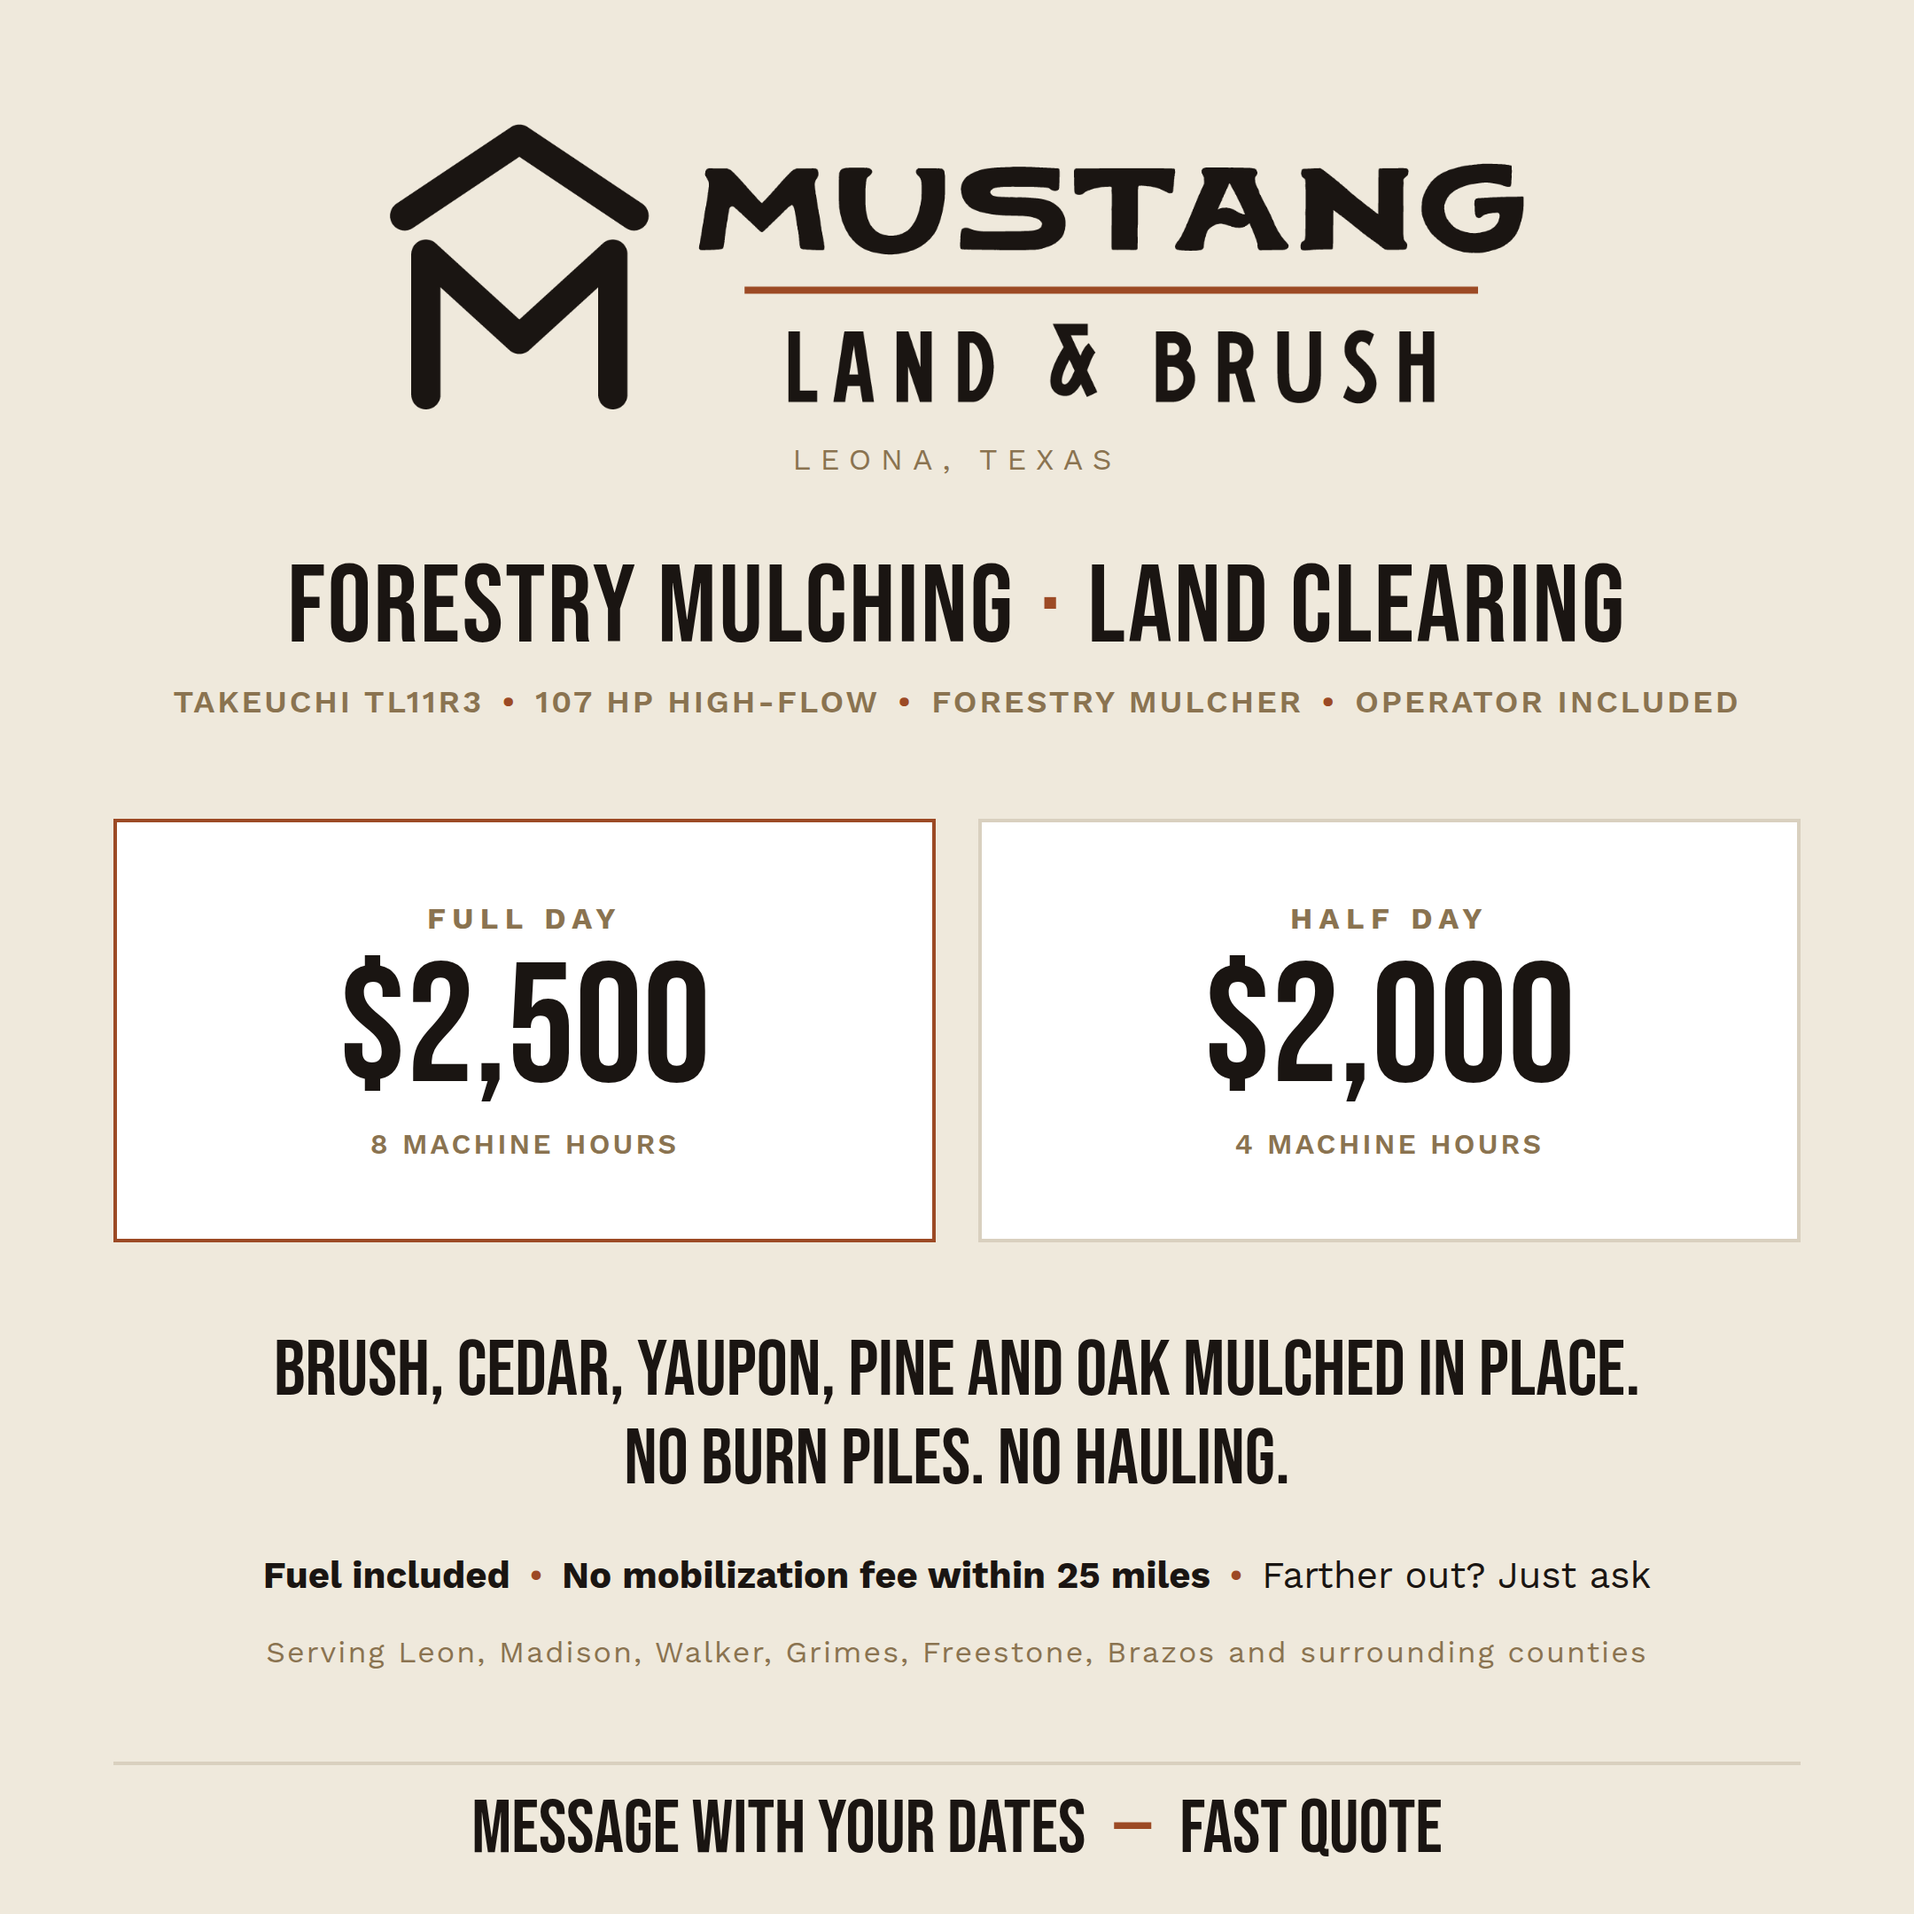
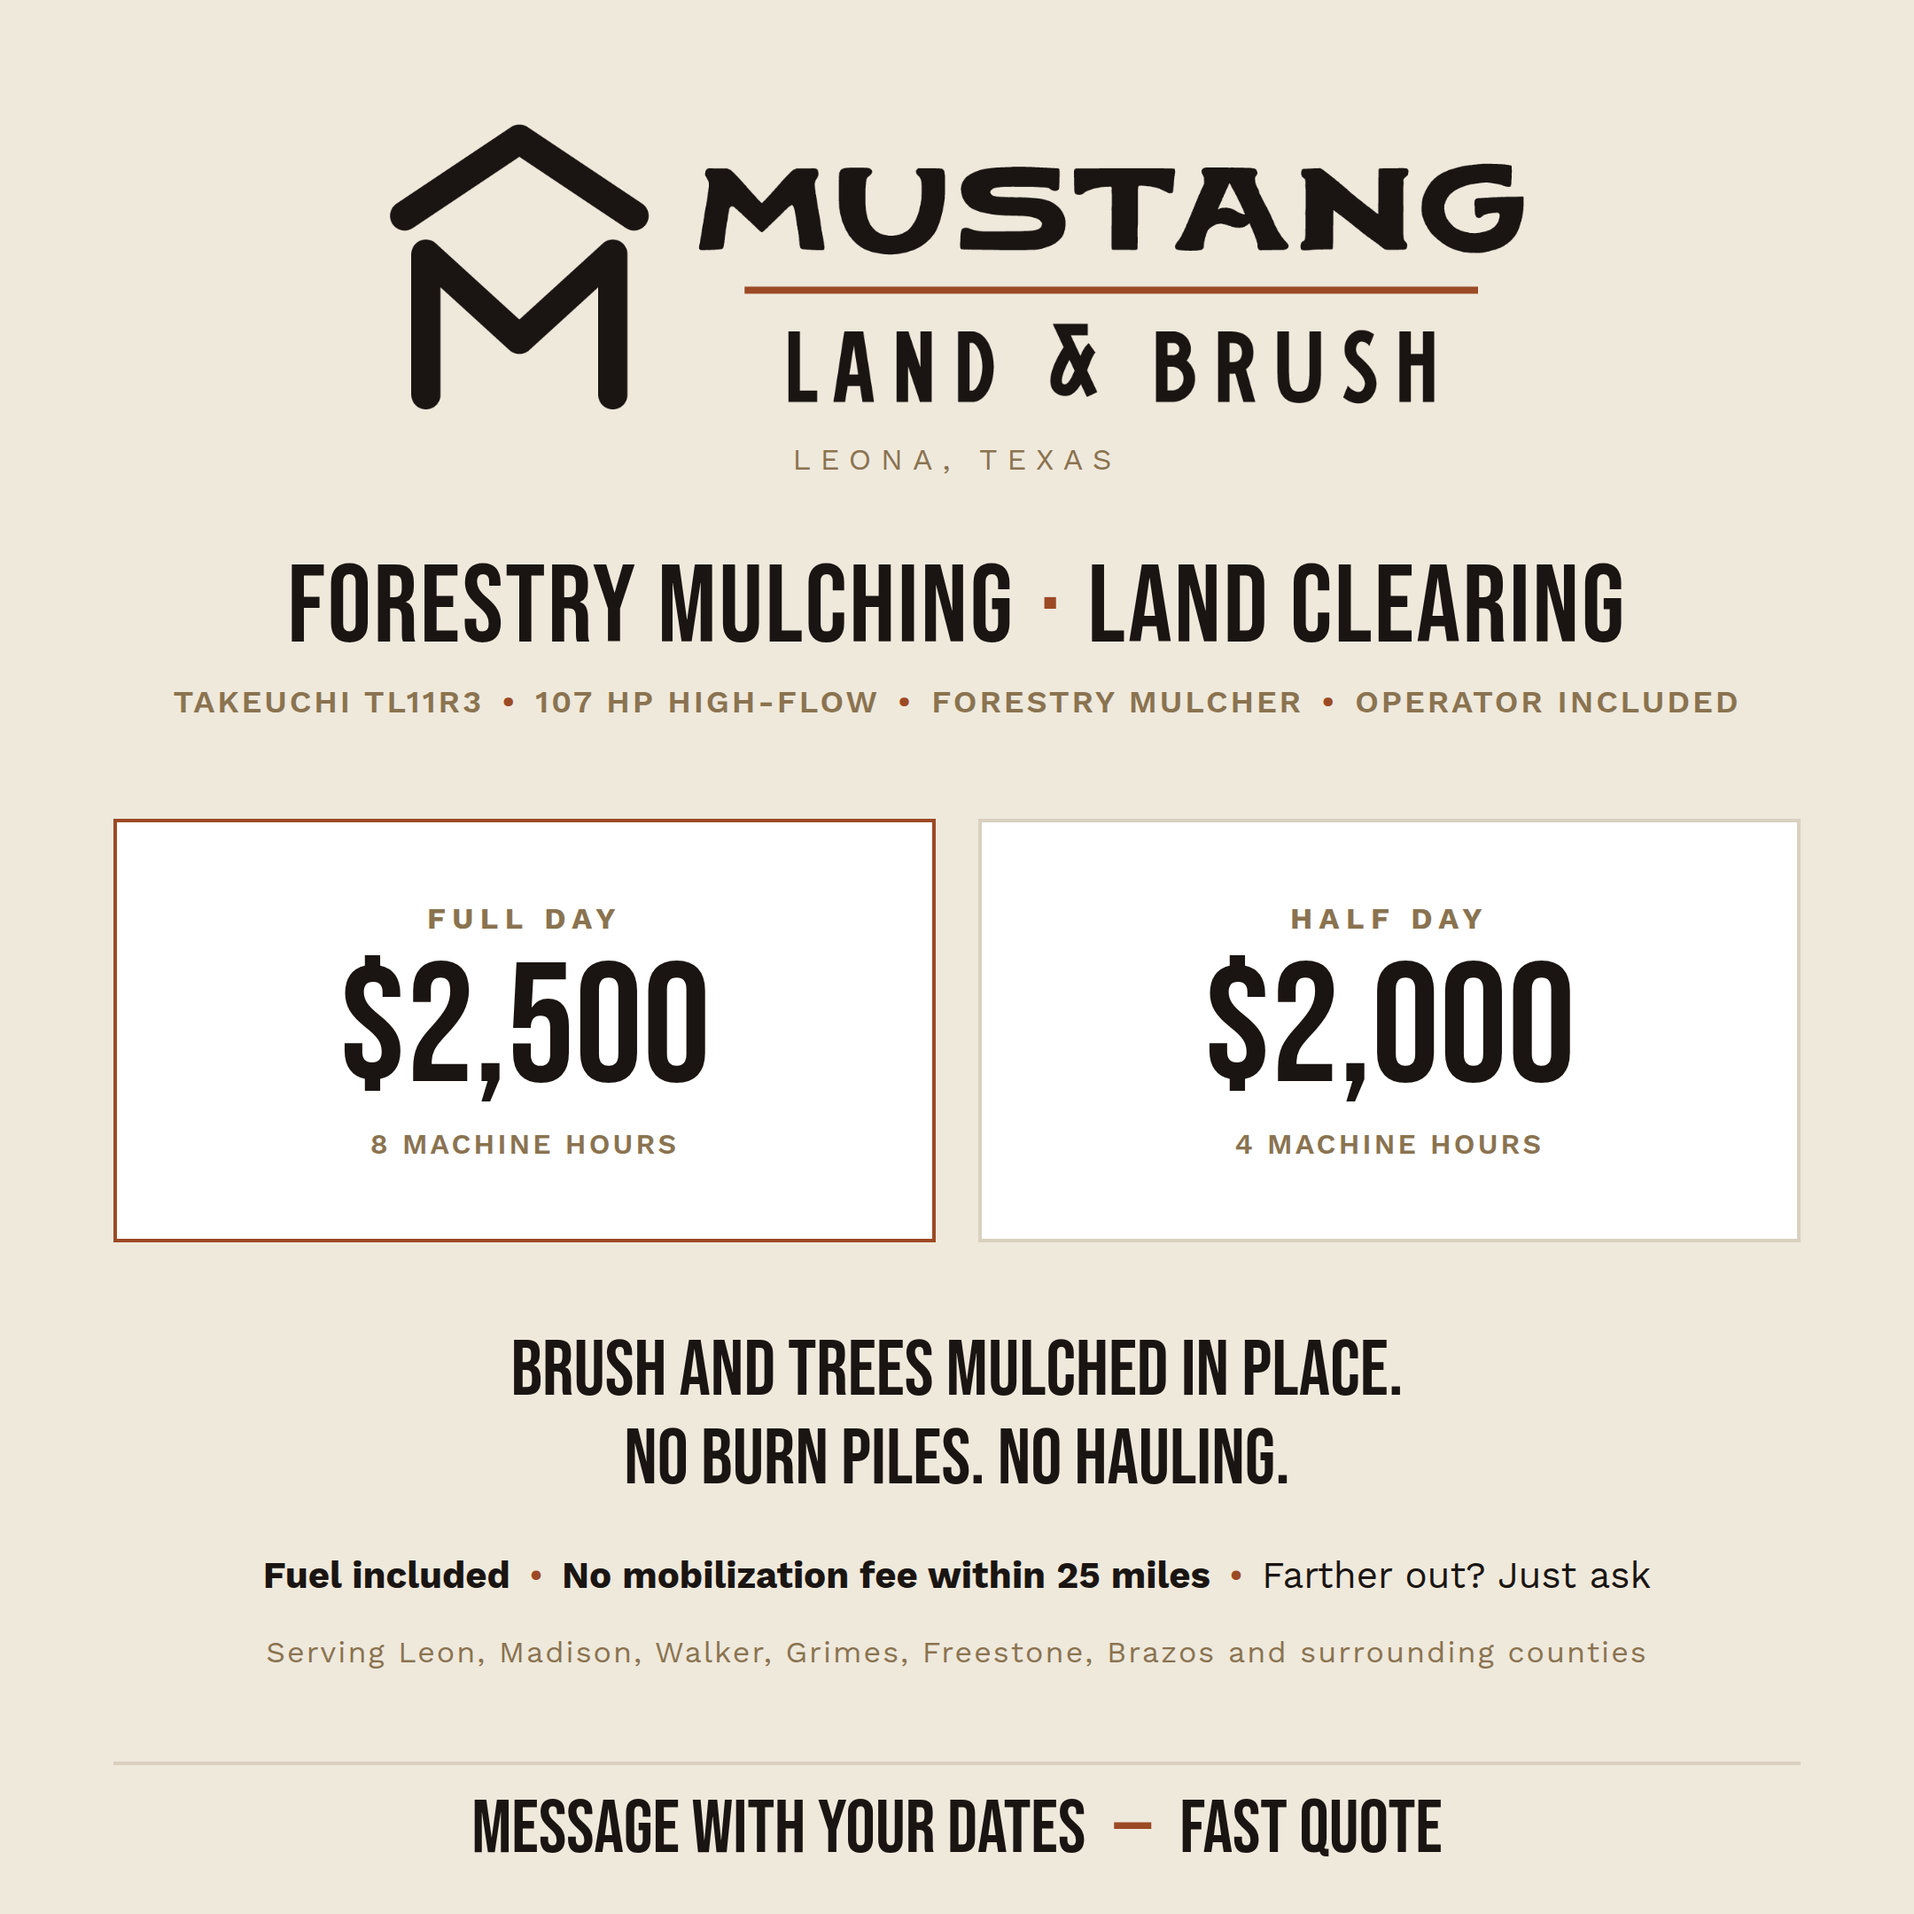
Mustang cards: drop species names
Claude-Session: https://claude.ai/code/session_01MjBdAn1tqXy1S9X7E6qMHj

Changed region(s): [[0.1241, 0.6824, 0.8685, 0.7444]]

diff --git a/marketing/mustang/mustang-card-phone.html b/marketing/mustang/mustang-card-phone.html
@@ -41,7 +41,7 @@ html,body{width:1080px;height:1080px;background:var(--bg);color:var(--bone);font
     <div class="rate"><div class="lbl">Half day</div><div class="amt bebas">$2,000</div><div class="sub">4 machine hours</div></div>
   </div>
   <div class="terms">
-    <span class="result">Brush, cedar, yaupon, pine and oak mulched in place.<br>No burn piles. No hauling.</span><br>
+    <span class="result">Brush and trees mulched in place.<br>No burn piles. No hauling.</span><br>
         <b>Fuel included</b><span class="dot">•</span><b>No mobilization fee within 25 miles</b><span class="dot">•</span>Farther out? Just ask<br>
     <span class="muted">Serving Leon, Madison, Walker, Grimes, Freestone, Brazos and surrounding counties</span>
   </div>

diff --git a/marketing/mustang/mustang-card.html b/marketing/mustang/mustang-card.html
@@ -41,7 +41,7 @@ html,body{width:1080px;height:1080px;background:var(--bg);color:var(--bone);font
     <div class="rate"><div class="lbl">Half day</div><div class="amt bebas">$2,000</div><div class="sub">4 machine hours</div></div>
   </div>
   <div class="terms">
-    <span class="result">Brush, cedar, yaupon, pine and oak mulched in place.<br>No burn piles. No hauling.</span><br>
+    <span class="result">Brush and trees mulched in place.<br>No burn piles. No hauling.</span><br>
         <b>Fuel included</b><span class="dot">•</span><b>No mobilization fee within 25 miles</b><span class="dot">•</span>Farther out? Just ask<br>
     <span class="muted">Serving Leon, Madison, Walker, Grimes, Freestone, Brazos and surrounding counties</span>
   </div>
